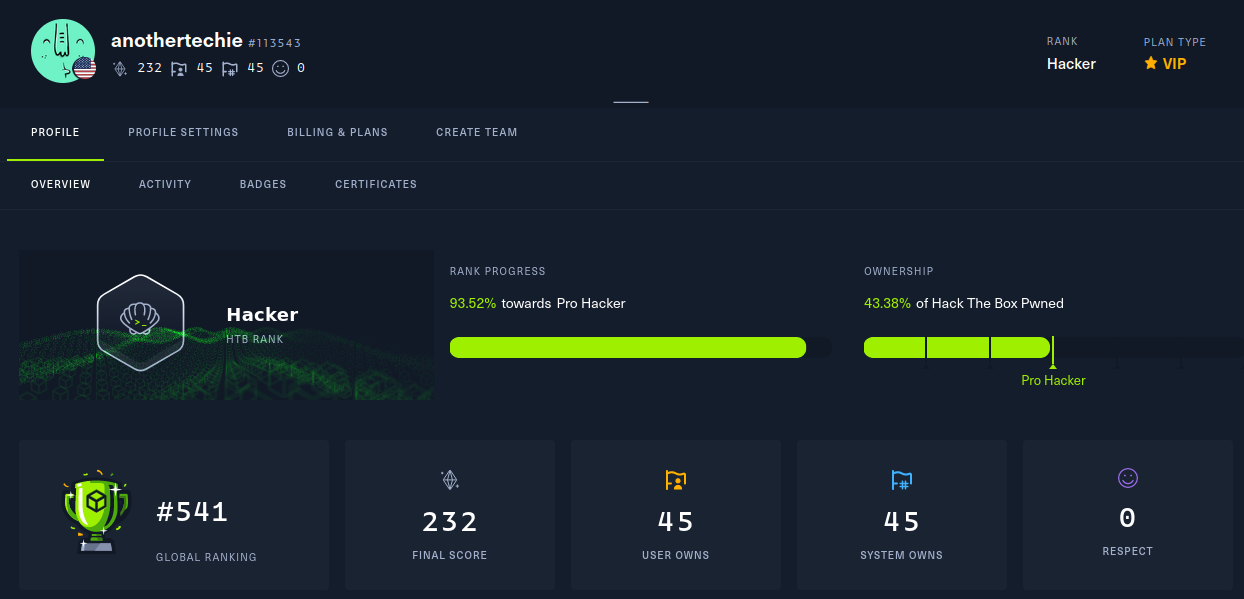
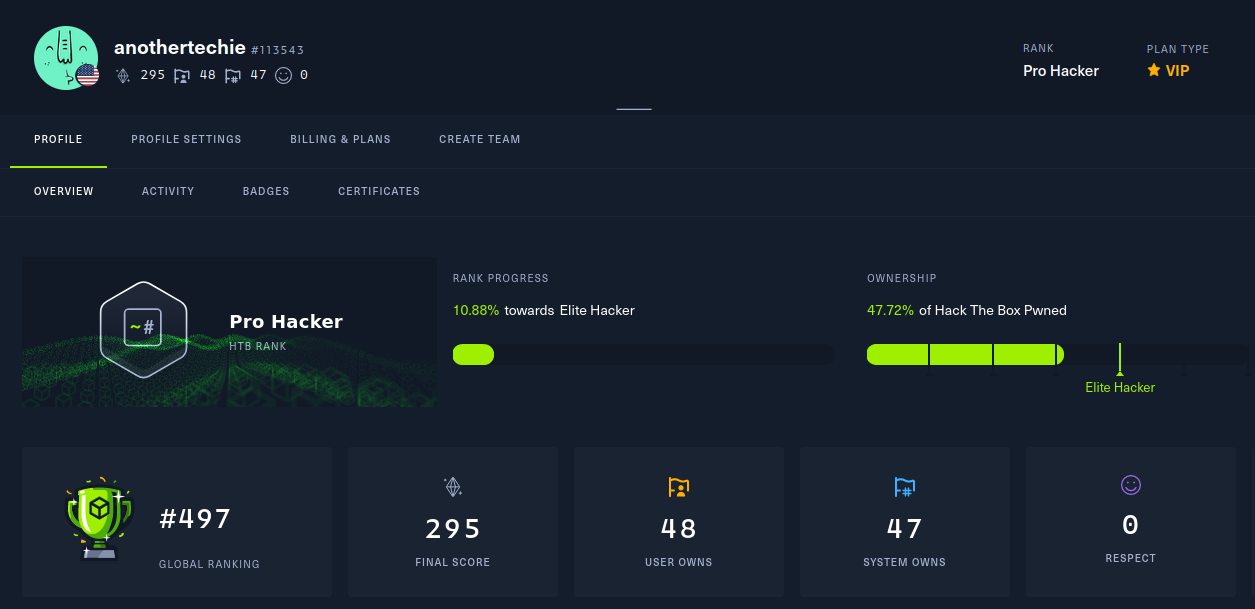
Updated HTB progress. Reached top 500!.

diff --git a/README.md b/README.md
@@ -1,7 +1,7 @@
 # Professional Summary
 I am a passionate and driven penetration tester with 3+ years of experience in Cybersecurity and success with working remotely. I have experience working with high level stakeholders to meet the cybersecurity objectives of clients. My peers would describe me as having a passion for learning, and excited to tackle new challenges in this dynamic field. My best qualities are my strong work ethic, compassion, and perseverance. My technical skills include penetration testing, network administration, and risk management. 
 
-I am one of the top 600 hackers globally out of [over 2 million](https://www.hackthebox.com/blog/htb-two-million-platform-members) other hackers on Hack the Box (HTB). Furthermore, I am in the top 1% of students on Hack the Box Academy. I am self taught and I completed my CEH, OSCP, and OSWP without any prior professional experience in penetration testing.
+I am one of the **top 500** hackers globally out of [over 2 million](https://www.hackthebox.com/blog/htb-two-million-platform-members) other hackers on Hack the Box (HTB). Furthermore, I am in the top 1% of students on Hack the Box Academy. I am self taught and I completed my CEH, OSCP, and OSWP without any prior professional experience in penetration testing.
 
 Additionally, I have a strong academic background in Cybersecurity. I completed my Bachelors of Science and Masters of Science, both in Cybersecurity and Information Assurance, at Western Governors University (WGU) in 1 1/2 years. For my Bachelors degree I completed 32 classes in 1 year. For my Masters degree I completed 10 course in 6 months. I graduated with my Masters Degree in Cybersecurity and Information Assurance 1 month after my 22nd birthday.
 
@@ -9,11 +9,13 @@ Copies of my diplomas and certifications are available upon request or on [Linke
 
 
 # Hack the Box (HTB) Progress
-08/16/23: #695 -> #596 globally 
+08/16/23: #695 -> #596 (**TOP 600 Globally**)
 
-08/24/23: #596 -> #573 globally
+08/24/23: #596 -> #573
 
-09/12/23: #573 -> #541 globally
+09/12/23: #573 -> #541
+
+09/18/23: #541 -> #497 (**TOP 500 Globally**)
 ![Alt text](image.png)
 
 ## HTB Academy
